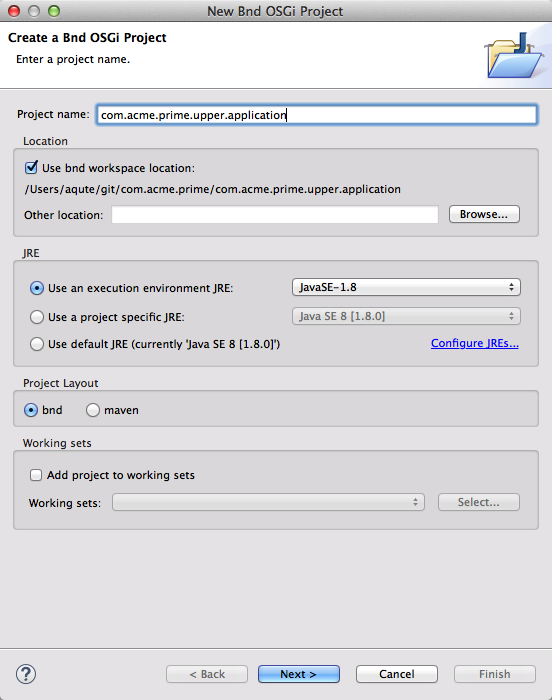
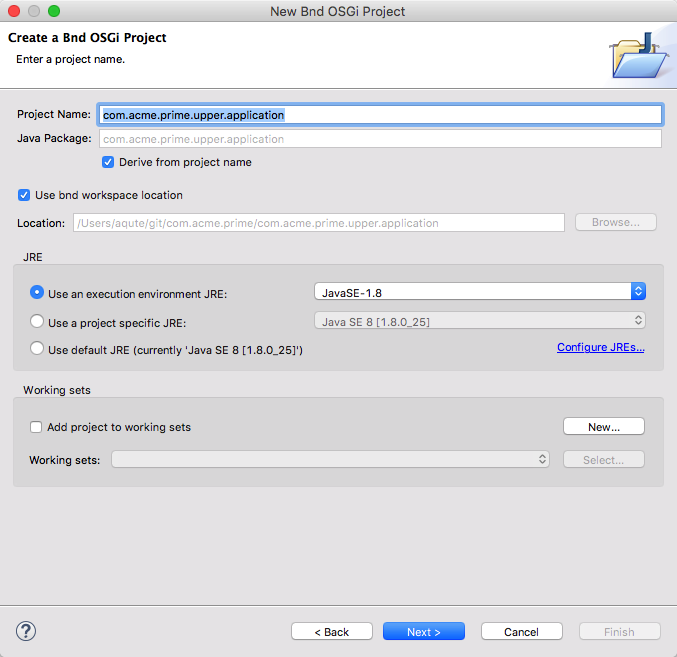
Reversed order templates

diff --git a/_qs/300-application.md b/_qs/300-application.md
@@ -18,11 +18,11 @@ Over time the menu system can have small changes. Variations seen are `Bnd OSGi 
 
 ![Create Application Project](/img/qs/app-create-0.png)
 
-This will open a wizard. Now naming is important and we've found that using Java package like names that use the workspace name as a prefix works best for projects. So we pick `com.acme.prime.upper.application`. For OSGi enRoute, this `.application` suffix is *crucial* since it defines the template we will use. So in the first page we enter this name.
+This will open a wizard where we select the _template_. For this tutorial, it is mandatory to use the OSGi enRoute template since our workspace is not setup for the other templates. The OSGi enRoute templates create specific project types based on the suffix of the project name. In this case we create an application project.
 
 ![Create Application Project](/img/qs/app-create-1.png)
  
-Click on `Next` to go to the page where we select the _template_. For this tutorial, it is mandatory to use the OSGi enRoute template since our workspace is not setup for the other templates. The OSGi enRoute templates create specific project types based on the suffix of the project name. In this case we create an application project.
+Now naming is important and we've found that using Java package like names that use the workspace name as a prefix works best for projects. So we pick `com.acme.prime.upper.application`. For OSGi enRoute, this `.application` suffix is *crucial* since it defines the template we will use. So in the first page we enter this name.
  
 ![Select the OSGi enRoute template](/img/qs/app-create-2.png)
  
